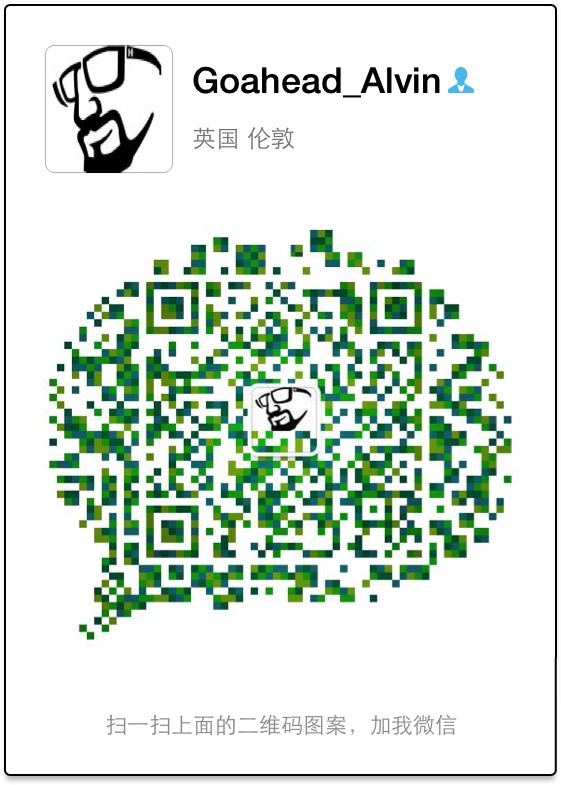
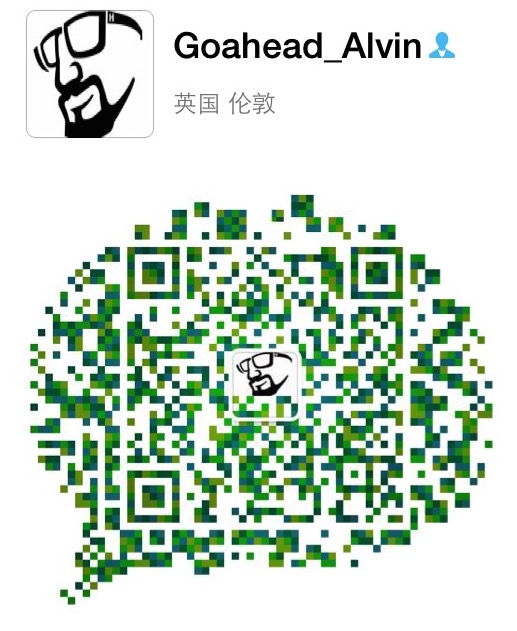
fasfa

diff --git a/_layouts/post.html b/_layouts/post.html
@@ -15,6 +15,11 @@
 </script>
 
 <style type="text/css">
+.wechat{
+background-color: white;
+}
+
+
  #back-top {
   position: fixed;
   bottom: 50px;
@@ -38,13 +43,14 @@
 }
 
 #dismiss {
-  width: 20px;
-  height: 20px;
+  width: 25px;
+  height: 25px;
   margin-left: 90%;
 }
-#dismiss:hover{
+
+/*#dismiss:hover{
   background-color: #777;
-}
+}*/
 
 </style>
 
@@ -141,12 +147,8 @@ $(document).ready(function () {
         {% if page.share %}{% include social-share.html %}{% endif %}
         {% if page.ads == true %}{% include ad-sidebar.html %}<!-- /.google-ads -->{% endif %}
 
-        <div id="menu"> 
+        <div id="menu" class="wechat"> 
           <div id="closeid" onclick="closeDiv();" >
-
-
-
-
               <div id="dismiss" >
           <figure >
               <img src="/images/cross.png" >
@@ -155,10 +157,6 @@ $(document).ready(function () {
           </div>
 <img src="http://www.goaheadalvin.com/images/goahead.jpg">
 &nbsp;&nbsp;&nbsp;&nbsp;&nbsp;&nbsp;&nbsp;&nbsp;&nbsp;&nbsp;&nbsp;&nbsp;欢迎添加我的微信
-
-
-
-
 
 </div>
 
